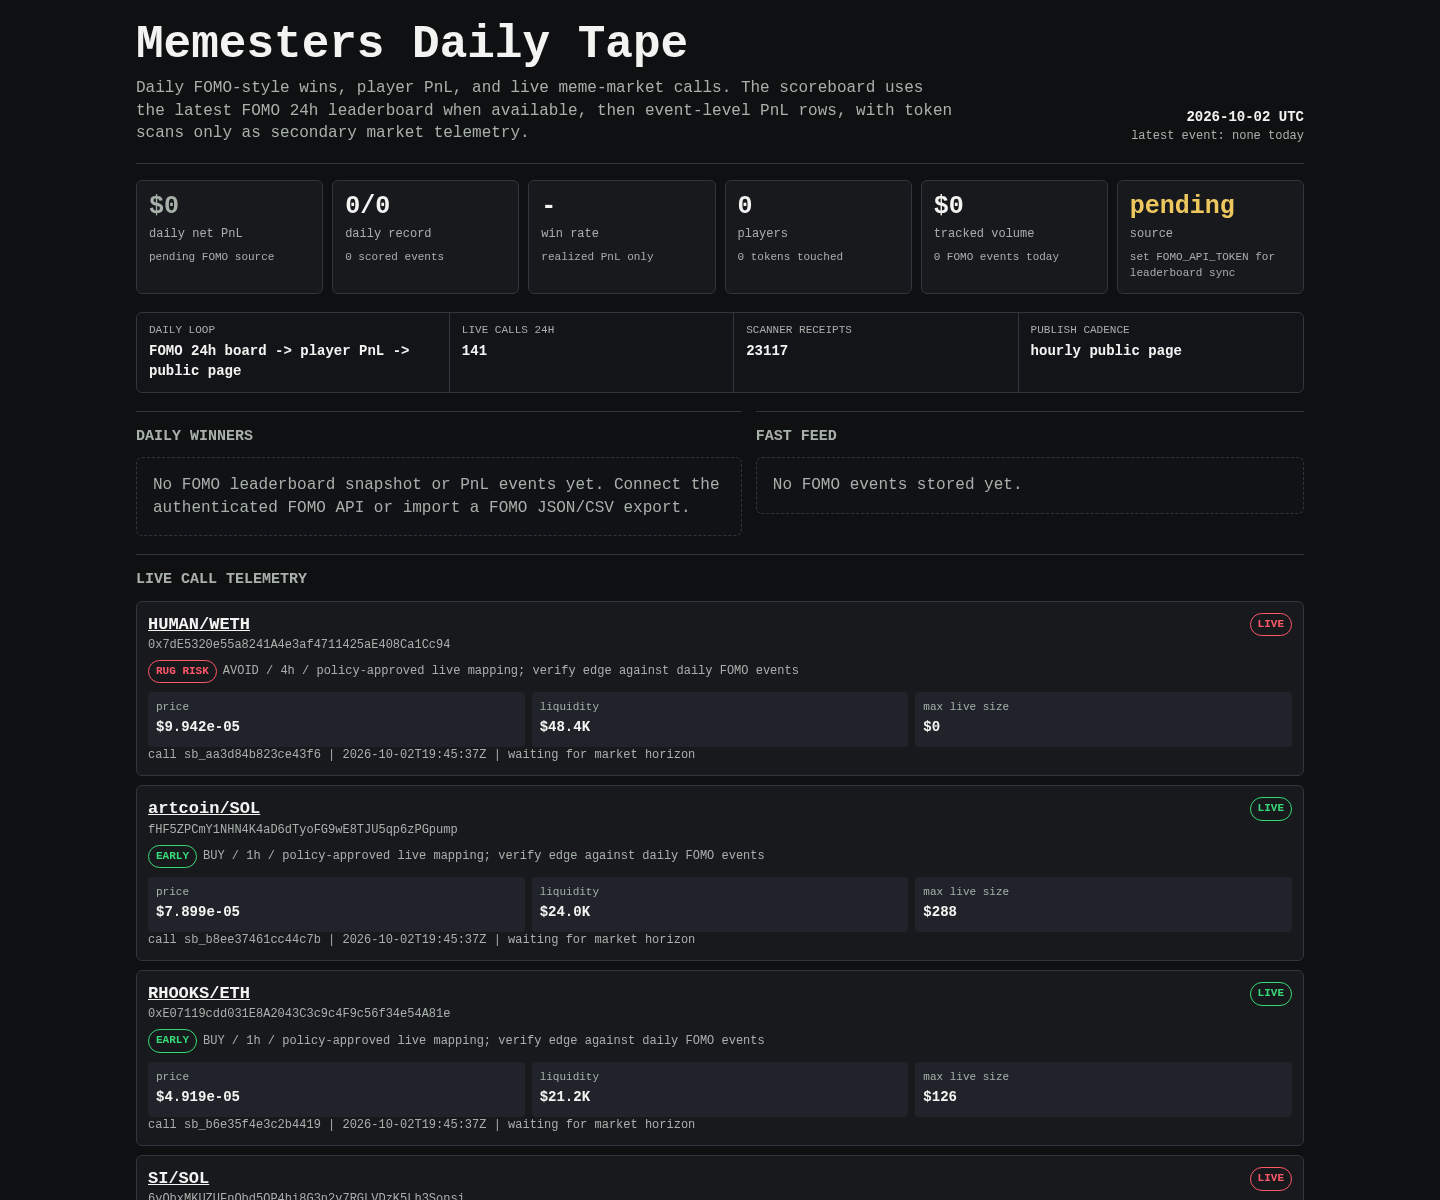
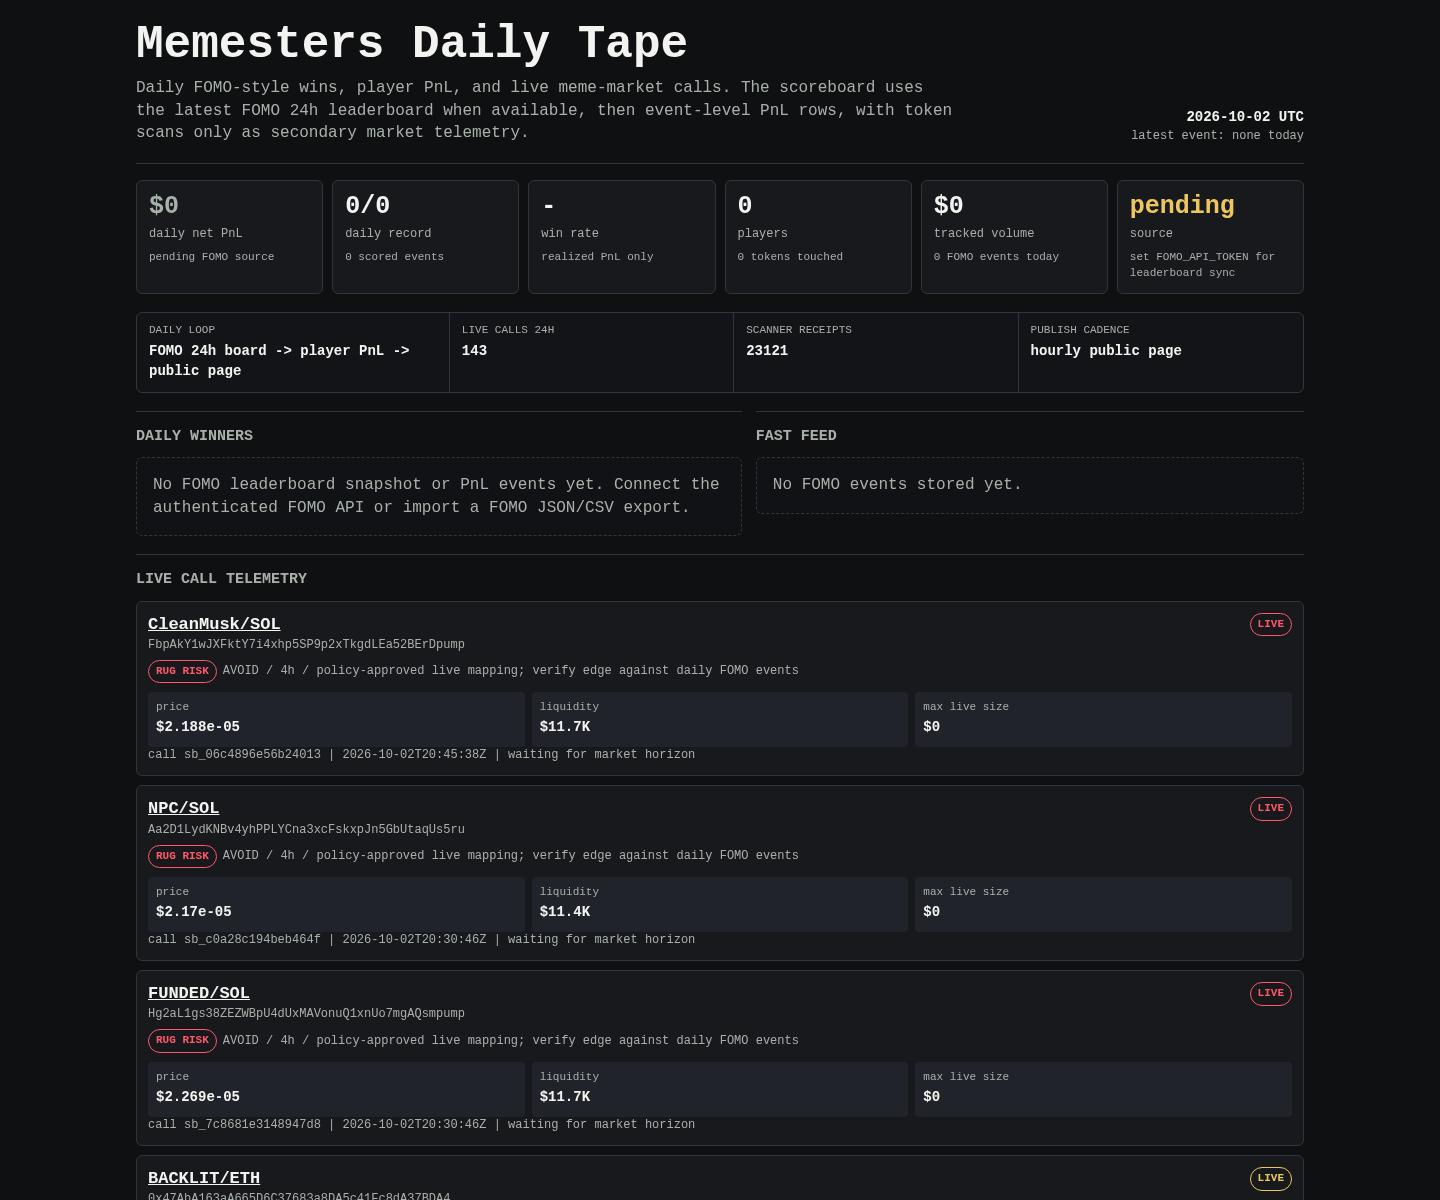
Update Memesters scoreboard

diff --git a/memesters/index.html b/memesters/index.html
@@ -149,8 +149,8 @@
 
     <div class="rail" aria-label="live operating loop">
       <div><span>daily loop</span><b>FOMO 24h board -> player PnL -> public page</b></div>
-      <div><span>live calls 24h</span><b>141</b></div>
-      <div><span>scanner receipts</span><b>23117</b></div>
+      <div><span>live calls 24h</span><b>143</b></div>
+      <div><span>scanner receipts</span><b>23121</b></div>
       <div><span>publish cadence</span><b>hourly public page</b></div>
     </div>
 
@@ -171,6 +171,90 @@
     <article class="receipt">
       <div class="receipt-head">
         <div>
+          <div class="pair"><a href="https://dexscreener.com/solana/hl2gben3oecsy6ghz4qnclwf7kdaxb4srxyrmquuijhw">CleanMusk/SOL</a></div>
+          <div class="addr">FbpAkY1wJXFktY7i4xhp5SP9p2xTkgdLEa52BErDpump</div>
+          <div class="addr policy-line">
+            <span class="badge rug-risk">RUG RISK</span>
+            <span>AVOID / 4h / policy-approved live mapping; verify edge against daily FOMO events</span>
+          </div>
+        </div>
+        <span class="badge rug-risk">LIVE</span>
+      </div>
+      <div class="receipt-grid">
+        <div class="kv"><span>price</span><b>$2.188e-05</b></div>
+        <div class="kv"><span>liquidity</span><b>$11.7K</b></div>
+        <div class="kv"><span>max live size</span><b>$0</b></div>
+      </div>
+      <div class="outcomes">call sb_06c4896e56b24013 | 2026-10-02T20:45:38Z | waiting for market horizon</div>
+    </article>
+    
+
+    <article class="receipt">
+      <div class="receipt-head">
+        <div>
+          <div class="pair"><a href="https://dexscreener.com/solana/ck34blozrb9ucyitp1vgqakhc8kxwvafzt9gphu48x5j">NPC/SOL</a></div>
+          <div class="addr">Aa2D1LydKNBv4yhPPLYCna3xcFskxpJn5GbUtaqUs5ru</div>
+          <div class="addr policy-line">
+            <span class="badge rug-risk">RUG RISK</span>
+            <span>AVOID / 4h / policy-approved live mapping; verify edge against daily FOMO events</span>
+          </div>
+        </div>
+        <span class="badge rug-risk">LIVE</span>
+      </div>
+      <div class="receipt-grid">
+        <div class="kv"><span>price</span><b>$2.17e-05</b></div>
+        <div class="kv"><span>liquidity</span><b>$11.4K</b></div>
+        <div class="kv"><span>max live size</span><b>$0</b></div>
+      </div>
+      <div class="outcomes">call sb_c0a28c194beb464f | 2026-10-02T20:30:46Z | waiting for market horizon</div>
+    </article>
+    
+
+    <article class="receipt">
+      <div class="receipt-head">
+        <div>
+          <div class="pair"><a href="https://dexscreener.com/solana/gejb8clamzazm4mo4ebr1c52ivenfenwnmibuvnyr6ch">FUNDED/SOL</a></div>
+          <div class="addr">Hg2aL1gs38ZEZWBpU4dUxMAVonuQ1xnUo7mgAQsmpump</div>
+          <div class="addr policy-line">
+            <span class="badge rug-risk">RUG RISK</span>
+            <span>AVOID / 4h / policy-approved live mapping; verify edge against daily FOMO events</span>
+          </div>
+        </div>
+        <span class="badge rug-risk">LIVE</span>
+      </div>
+      <div class="receipt-grid">
+        <div class="kv"><span>price</span><b>$2.269e-05</b></div>
+        <div class="kv"><span>liquidity</span><b>$11.7K</b></div>
+        <div class="kv"><span>max live size</span><b>$0</b></div>
+      </div>
+      <div class="outcomes">call sb_7c8681e3148947d8 | 2026-10-02T20:30:46Z | waiting for market horizon</div>
+    </article>
+    
+
+    <article class="receipt">
+      <div class="receipt-head">
+        <div>
+          <div class="pair"><a href="https://dexscreener.com/robinhood/0x41cc8e377f841608558e85f074aa96a87af7ae840a3a44a9da5e904df3f4158d">BACKLIT/ETH</a></div>
+          <div class="addr">0x47AbA163aA665D6C37683a8DA5c41Fc8dA37BDA4</div>
+          <div class="addr policy-line">
+            <span class="badge chase">CHASE</span>
+            <span>AVOID / 4h / policy-approved live mapping; verify edge against daily FOMO events</span>
+          </div>
+        </div>
+        <span class="badge chase">LIVE</span>
+      </div>
+      <div class="receipt-grid">
+        <div class="kv"><span>price</span><b>$2.58e-05</b></div>
+        <div class="kv"><span>liquidity</span><b>$10.1K</b></div>
+        <div class="kv"><span>max live size</span><b>$0</b></div>
+      </div>
+      <div class="outcomes">call sb_cfcbd6ebfca64adb | 2026-10-02T20:30:46Z | <span class="positive">15m -13.4% / +$13 if followed</span></div>
+    </article>
+    
+
+    <article class="receipt">
+      <div class="receipt-head">
+        <div>
           <div class="pair"><a href="https://dexscreener.com/robinhood/0x17b9b5a18404908653ff95660897ce32eea76203">HUMAN/WETH</a></div>
           <div class="addr">0x7dE5320e55a8241A4e3af4711425aE408Ca1Cc94</div>
           <div class="addr policy-line">
@@ -185,7 +269,7 @@
         <div class="kv"><span>liquidity</span><b>$48.4K</b></div>
         <div class="kv"><span>max live size</span><b>$0</b></div>
       </div>
-      <div class="outcomes">call sb_aa3d84b823ce43f6 | 2026-10-02T19:45:37Z | waiting for market horizon</div>
+      <div class="outcomes">call sb_aa3d84b823ce43f6 | 2026-10-02T19:45:37Z | <span class="negative">15m +85.0% / -$85 if followed</span> | <span class="negative">1h +141.9% / -$142 if followed</span></div>
     </article>
     
 
@@ -206,7 +290,7 @@
         <div class="kv"><span>liquidity</span><b>$24.0K</b></div>
         <div class="kv"><span>max live size</span><b>$288</b></div>
       </div>
-      <div class="outcomes">call sb_b8ee37461cc44c7b | 2026-10-02T19:45:37Z | waiting for market horizon</div>
+      <div class="outcomes">call sb_b8ee37461cc44c7b | 2026-10-02T19:45:37Z | <span class="negative">15m -92.9% / -$93 if followed</span> | <span class="negative">1h -90.3% / -$90 if followed</span></div>
     </article>
     
 
@@ -227,7 +311,7 @@
         <div class="kv"><span>liquidity</span><b>$21.2K</b></div>
         <div class="kv"><span>max live size</span><b>$126</b></div>
       </div>
-      <div class="outcomes">call sb_b6e35f4e3c2b4419 | 2026-10-02T19:45:37Z | waiting for market horizon</div>
+      <div class="outcomes">call sb_b6e35f4e3c2b4419 | 2026-10-02T19:45:37Z | <span class="negative">15m -39.2% / -$39 if followed</span> | <span class="negative">1h -16.3% / -$16 if followed</span></div>
     </article>
     
 
@@ -248,7 +332,7 @@
         <div class="kv"><span>liquidity</span><b>$10.1K</b></div>
         <div class="kv"><span>max live size</span><b>$0</b></div>
       </div>
-      <div class="outcomes">call sb_91843f6e0d624247 | 2026-10-02T19:45:37Z | waiting for market horizon</div>
+      <div class="outcomes">call sb_91843f6e0d624247 | 2026-10-02T19:45:37Z | <span class="positive">15m -83.0% / +$83 if followed</span> | <span class="positive">1h -83.1% / +$83 if followed</span></div>
     </article>
     
 
@@ -269,7 +353,7 @@
         <div class="kv"><span>liquidity</span><b>$15.7K</b></div>
         <div class="kv"><span>max live size</span><b>$0</b></div>
       </div>
-      <div class="outcomes">call sb_474947cb23dc47b5 | 2026-10-02T19:45:37Z | waiting for market horizon</div>
+      <div class="outcomes">call sb_474947cb23dc47b5 | 2026-10-02T19:45:37Z | <span class="positive">15m -10.8% / +$11 if followed</span> | <span class="positive">1h -11.4% / +$11 if followed</span></div>
     </article>
     
 
@@ -290,91 +374,7 @@
         <div class="kv"><span>liquidity</span><b>$4.2K</b></div>
         <div class="kv"><span>max live size</span><b>$0</b></div>
       </div>
-      <div class="outcomes">call sb_578ace82dc5448a8 | 2026-10-02T19:45:37Z | waiting for market horizon</div>
-    </article>
-    
-
-    <article class="receipt">
-      <div class="receipt-head">
-        <div>
-          <div class="pair"><a href="https://dexscreener.com/solana/2sbghnfs9ypcs7hppawt1rhgxpv1wewp2ynsgbdsyujw">Pumpkinu/SOL</a></div>
-          <div class="addr">CJZaHX5RQbvKrRyMoUU9D3jyvXj8Yy7QLLmcKvoopump</div>
-          <div class="addr policy-line">
-            <span class="badge early">EARLY</span>
-            <span>BUY / 1h / policy-approved live mapping; verify edge against daily FOMO events</span>
-          </div>
-        </div>
-        <span class="badge early">LIVE</span>
-      </div>
-      <div class="receipt-grid">
-        <div class="kv"><span>price</span><b>$6.228e-05</b></div>
-        <div class="kv"><span>liquidity</span><b>$20.7K</b></div>
-        <div class="kv"><span>max live size</span><b>$92</b></div>
-      </div>
-      <div class="outcomes">call sb_283c94190986481e | 2026-10-02T19:30:38Z | waiting for market horizon</div>
-    </article>
-    
-
-    <article class="receipt">
-      <div class="receipt-head">
-        <div>
-          <div class="pair"><a href="https://dexscreener.com/robinhood/0x17b9b5a18404908653ff95660897ce32eea76203">HUMAN/WETH</a></div>
-          <div class="addr">0x7dE5320e55a8241A4e3af4711425aE408Ca1Cc94</div>
-          <div class="addr policy-line">
-            <span class="badge chase">CHASE</span>
-            <span>AVOID / 4h / policy-approved live mapping; verify edge against daily FOMO events</span>
-          </div>
-        </div>
-        <span class="badge chase">LIVE</span>
-      </div>
-      <div class="receipt-grid">
-        <div class="kv"><span>price</span><b>$0.0001376</b></div>
-        <div class="kv"><span>liquidity</span><b>$58.4K</b></div>
-        <div class="kv"><span>max live size</span><b>$0</b></div>
-      </div>
-      <div class="outcomes">call sb_b283991db2324ac0 | 2026-10-02T19:30:38Z | <span class="positive">15m -32.7% / +$33 if followed</span></div>
-    </article>
-    
-
-    <article class="receipt">
-      <div class="receipt-head">
-        <div>
-          <div class="pair"><a href="https://dexscreener.com/solana/7dpeacep8ybgb8vhjnxes8kgnyg4pgdmpkd7bag7tofj">artcoin/SOL</a></div>
-          <div class="addr">fHF5ZPCmY1NHN4K4aD6dTyoFG9wE8TJU5qp6zPGpump</div>
-          <div class="addr policy-line">
-            <span class="badge early">EARLY</span>
-            <span>BUY / 1h / policy-approved live mapping; verify edge against daily FOMO events</span>
-          </div>
-        </div>
-        <span class="badge early">LIVE</span>
-      </div>
-      <div class="receipt-grid">
-        <div class="kv"><span>price</span><b>$3.353e-05</b></div>
-        <div class="kv"><span>liquidity</span><b>$14.6K</b></div>
-        <div class="kv"><span>max live size</span><b>$175</b></div>
-      </div>
-      <div class="outcomes">call sb_ba89519896494c65 | 2026-10-02T19:30:38Z | <span class="negative">15m -61.7% / -$62 if followed</span></div>
-    </article>
-    
-
-    <article class="receipt">
-      <div class="receipt-head">
-        <div>
-          <div class="pair"><a href="https://dexscreener.com/solana/pmmmhpbgyz4pqs3rdm2uqykc6rqse4xut8x64gjqkpy">PATIENCE/SOL</a></div>
-          <div class="addr">CqjdTSyRCmTrRLDoLADNhE7jgEUfU2M8nG2XhiDQh7Ke</div>
-          <div class="addr policy-line">
-            <span class="badge rug-risk">RUG RISK</span>
-            <span>AVOID / 4h / policy-approved live mapping; verify edge against daily FOMO events</span>
-          </div>
-        </div>
-        <span class="badge rug-risk">LIVE</span>
-      </div>
-      <div class="receipt-grid">
-        <div class="kv"><span>price</span><b>$3.327e-05</b></div>
-        <div class="kv"><span>liquidity</span><b>$18.0K</b></div>
-        <div class="kv"><span>max live size</span><b>$0</b></div>
-      </div>
-      <div class="outcomes">call sb_e4053242ea8f42ef | 2026-10-02T19:30:38Z | <span class="positive">15m -92.3% / +$92 if followed</span></div>
+      <div class="outcomes">call sb_578ace82dc5448a8 | 2026-10-02T19:45:37Z | <span class="positive">15m -3.5% / +$3 if followed</span> | <span class="positive">1h -3.5% / +$3 if followed</span></div>
     </article>
     
     </section>
